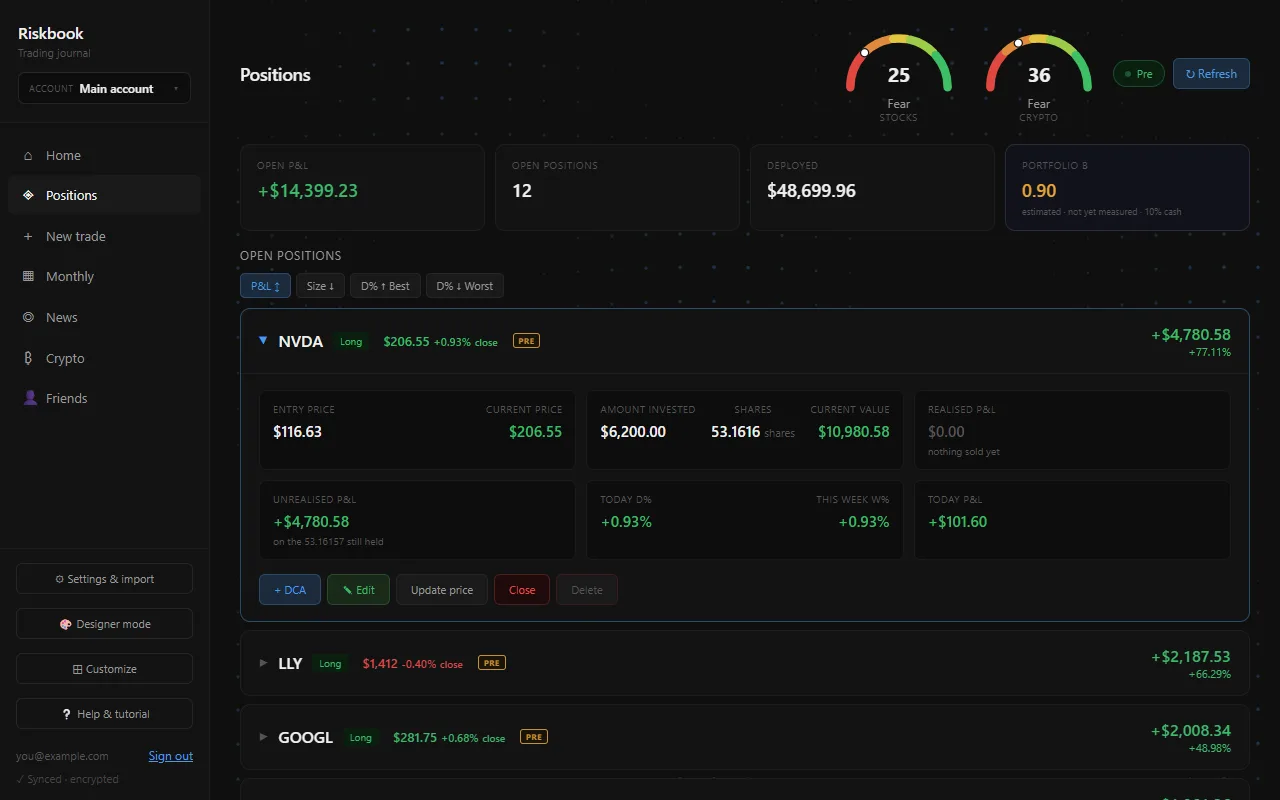
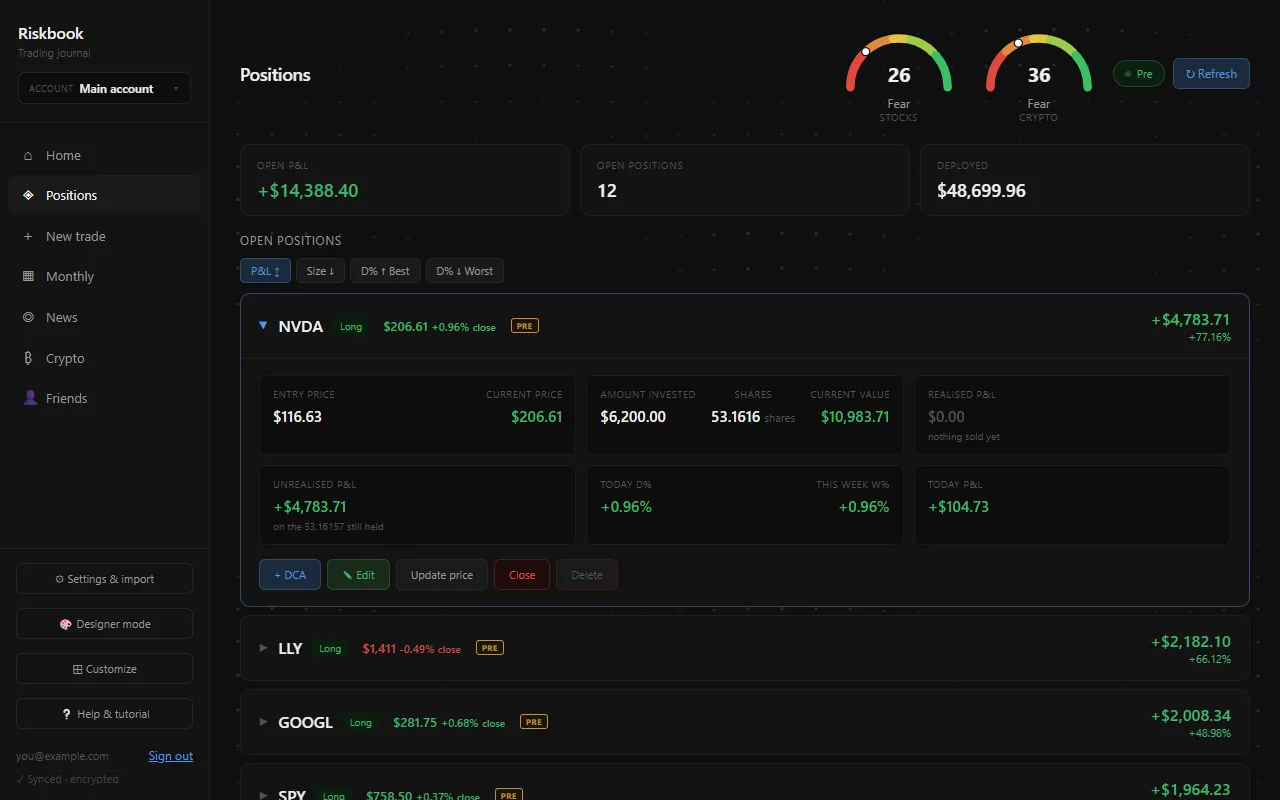
chore: one Help (in the menu), and no Portfolio β on Positions
The top-right ❔ Help repeated the menu's Help & tutorial; it is gone. The β tile
and the beta fetch behind it are removed; Positions shows three figures (open
P&L across the top on a phone). Tutorial pictures retaken to match.

diff --git a/src/ui/views/positions.js b/src/ui/views/positions.js
@@ -1,10 +1,9 @@
 /** The Positions page: summary tiles, then open and closed position cards. */
 import { state } from '../../core/store.js';
 import {
-  unreal, costOf, portfolioBeta, sortPositions, realized, accountTotals, dailyPercent,
+  unreal, costOf, sortPositions, realized, dailyPercent,
 } from '../../core/portfolio.js';
 import { dayStillRunning } from '../dayReset.js';
-import { measuredBetas } from '../../services/benchmark.js';
 import { ui } from '../uiState.js';
 import { positionCard } from './positionCard.js';
 import { money as $u, signedMoney as $s, pnlColor as clr } from '../format.js';
@@ -21,55 +20,18 @@ const setText = (id, text) => { const el = document.getElementById(id); if (el) 
  */
 const dayPctOnScreen = (p) => (dayStillRunning(p) ? dailyPercent(p) : 0);
 
-/**
- * Betas measured from real returns, refreshed in the background.
- *
- * Rendering is synchronous but the index history is not, so the page draws with
- * whatever is known and improves once the fetch lands. Empty means every beta
- * falls back to its published assumption, which is the state until enough
- * history has been collected.
- */
-let measuredBetaCache = new Map();
-
-export async function refreshMeasuredBetas() {
-  const open = state.positions.filter((p) => p.status === 'Open');
-  if (!open.length) return;
-  const next = await measuredBetas(open.map((p) => p.ticker));
-  if (!next.size) return;
-  measuredBetaCache = next;
-  renderPositions();
-}
-
 export function renderPositions() {
   const open = state.positions.filter((p) => p.status === 'Open');
   const closed = state.positions.filter((p) => p.status === 'Closed');
 
   const openPnl = open.reduce((sum, p) => sum + unreal(p), 0);
   const deployed = open.reduce((sum, p) => sum + costOf(p), 0);
-  // Beta is measured against total equity, so cash has to come with it.
-  const account = accountTotals(state.positions, state.cash).account;
-  const beta = portfolioBeta(open, measuredBetaCache, account);
 
   setText('sOpenPnl', $s(openPnl));
   const pnlEl = document.getElementById('sOpenPnl');
   if (pnlEl) pnlEl.style.color = clr(openPnl);
   setText('sOpenCount', open.length);
   setText('sDeployed', $u(deployed).replace('.00', ''));
-  setText('sBeta', beta == null ? '—' : beta.beta.toFixed(2));
-
-  // Say plainly whether this was measured from returns or assumed. They are
-  // very different claims, and the number alone cannot tell them apart.
-  const betaNote = document.querySelector('.sum-beta .sum-sub');
-  if (betaNote) {
-    if (beta == null) betaNote.textContent = 'size-weighted';
-    else {
-      const source = beta.measuredPct >= 99 ? 'measured vs S&P 500'
-        : beta.measuredPct < 1 ? 'estimated · not yet measured'
-          : `${Math.round(beta.measuredPct)}% measured`;
-      const drag = beta.cashDragPct >= 1 ? ` · ${Math.round(beta.cashDragPct)}% cash` : '';
-      betaNote.textContent = source + drag;
-    }
-  }
 
   const openEl = document.getElementById('openPositions');
   if (openEl) {

diff --git a/index.html b/index.html
@@ -181,7 +181,7 @@
       <button class="settings-btn" id="themeBtn" onclick="openDesigner()" style="margin-top:6px">🎨 Designer mode</button>
       <!-- Choose the pages and panels shown: src/ui/views/customize.js. -->
       <button class="settings-btn" id="customizeBtn" onclick="openCustomize()" style="margin-top:6px">⊞ Customize</button>
-      <button class="settings-btn" onclick="openTour()" style="margin-top:6px">❔ Help &amp; tutorial</button>
+      <button class="settings-btn" id="tourBtn" onclick="openTour()" style="margin-top:6px">❔ Help &amp; tutorial</button>
       <div class="account-row" id="accountRow" style="margin-top:10px;display:none">
         <span class="account-email" id="accountEmail"></span>
         <button class="lock-link" onclick="signOut()">Sign out</button>
@@ -207,8 +207,6 @@
           <!-- Money out of the broker: lowers the account, never the returns. -->
           <button class="topbar-btn topbar-btn-warn" onclick="withdrawMoney()" title="Record money taken out of your broker">↓ Withdraw</button>
           <button class="topbar-btn topbar-newtrade" onclick="show('add')">+ New trade</button>
-          <!-- The tutorial, again, any time: src/ui/views/tour.js. -->
-          <button class="topbar-btn topbar-help" id="helpBtn" onclick="openTour()" title="How Riskbook works">❔ Help</button>
         </div>
       </div>
       <div class="hero">
@@ -295,7 +293,6 @@
         <div class="sum"><div class="sum-lbl">Open P&L</div><div class="sum-val" id="sOpenPnl">+$0</div></div>
         <div class="sum"><div class="sum-lbl">Open positions</div><div class="sum-val" id="sOpenCount">0</div></div>
         <div class="sum"><div class="sum-lbl">Deployed</div><div class="sum-val" id="sDeployed">$0</div></div>
-        <div class="sum sum-beta" title="How your portfolio moves relative to the market. 1.0 = moves exactly with the S&amp;P 500"><div class="sum-lbl">Portfolio β</div><div class="sum-val amber" id="sBeta">—</div><div class="sum-sub">size-weighted</div></div>
       </div>
       <div class="section-title">Open positions</div>
       <div style="display:flex;gap:5px;margin-bottom:10px;flex-wrap:wrap">
@@ -749,7 +746,7 @@
       <input type="text" id="apiKeyInput" placeholder="Paste your key here">
     </div>
     <div class="modal-field">
-      <label>Alpha Vantage key — for the S&amp;P 500 comparison and measured beta</label>
+      <label>Alpha Vantage key — for the S&amp;P 500 comparison</label>
       <input type="text" id="benchKeyInput" placeholder="Optional. Free at alphavantage.co">
     </div>
     <div class="btn-row">

diff --git a/src/app/actions.js b/src/app/actions.js
@@ -35,7 +35,7 @@ import { renderHome, toggleAmounts, drawCurve } from '../ui/views/home.js';
 import { toggleDailyLog } from '../ui/views/dailyLog.js';
 import { openCustomize, closeCustomize } from '../ui/views/customize.js';
 import { openTour, closeTour } from '../ui/views/tour.js';
-import { renderPositions, refreshMeasuredBetas } from '../ui/views/positions.js';
+import { renderPositions } from '../ui/views/positions.js';
 import { renderClosePreview } from '../ui/views/closePreview.js';
 import { renderMonthly, renderMonthDetail, populateMonthPicker, populateYearPicker, selectMonth } from '../ui/views/monthly.js';
 import {
@@ -164,7 +164,6 @@ export async function saveAndQuit() {
   closeSettings();
   refreshPrices();
   renderAll();
-  refreshMeasuredBetas();
 }
 
 export function saveApiKey() {
@@ -172,9 +171,8 @@ export function saveApiKey() {
   saveBenchmarkKey(readBenchKeyInput());
   closeSettings();
   refreshPrices();
-  // A new market-data key can change both the benchmark line and beta.
+  // A new market-data key can change the benchmark line.
   renderAll();
-  refreshMeasuredBetas();
 }
 
 // ─── Creating and editing trades ─────────────────────────────────
@@ -1539,7 +1537,6 @@ export async function confirmIbkrImport(replace = false) {
   closeSettings();
   renderAll();
   refreshPrices();
-  refreshMeasuredBetas();
   show('positions');
 
   /**

diff --git a/styles/components.css b/styles/components.css
@@ -335,9 +335,8 @@
 }
 
 /* Positions page summary tiles */
-.summary-row{display:grid;grid-template-columns:repeat(4,minmax(0,1fr));gap:10px;margin-bottom:16px}
+.summary-row{display:grid;grid-template-columns:repeat(3,minmax(0,1fr));gap:10px;margin-bottom:16px}
 .sum{background:var(--panel);border:0.5px solid var(--border);border-radius:10px;padding:13px 16px}
-.sum-beta{border-color:var(--beta-br);background:var(--beta-bg)}
 .sum-lbl{font-size:10px;color:var(--text3);text-transform:uppercase;letter-spacing:0.06em;margin-bottom:6px}
 .sum-val{font-size:18px;font-weight:600;font-variant-numeric:tabular-nums}
 .sum-sub{font-size:9px;color:var(--text3);margin-top:3px}
@@ -1356,9 +1355,10 @@ a.wt-wallet:hover{color:var(--blue);text-decoration:underline}
   .opt-picker{flex-wrap:wrap}
   /* The bottom tab bar already has New trade; the Home shortcut would only repeat it. */
   .topbar-newtrade{display:none}
-  /* Four figures in a row left each about seventy pixels on a phone, and the
-     dollar amounts were cut off mid-number. Two by two. */
+  /* Three figures in a row cut the dollar amounts off mid-number on a phone.
+     Open P&L across the top, the other two side by side under it. */
   .summary-row{grid-template-columns:repeat(2,minmax(0,1fr))}
+  .summary-row .sum:first-child{grid-column:1/-1}
 }
 
 /* ───────── Friends (views/friends.js) ───────── */

diff --git a/src/ui/views/tourShots.js b/src/ui/views/tourShots.js
@@ -51,22 +51,22 @@ export const SHOTS = {
         29
       ],
       "withdraw": [
-        985,
+        1064,
         59,
         86,
         30
       ],
       "newTrade": [
-        1079,
+        1158,
         59,
         92,
         30
       ],
       "help": [
-        1179,
-        59,
-        71,
-        30
+        16,
+        698,
+        177,
+        31
       ],
       "settings": [
         16,
@@ -160,31 +160,31 @@ export const SHOTS = {
     "rects": {
       "card": [
         241,
-        309,
+        294,
         1008,
         64
       ],
       "close": [
         494,
-        574,
+        559,
         56,
         31
       ],
       "dca": [
         259,
-        574,
+        559,
         62,
         31
       ],
       "edit": [
         327,
-        574,
+        559,
         62,
         31
       ],
       "sort": [
         350,
-        273,
+        258,
         70,
         25
       ]
@@ -219,9 +219,9 @@ export const SHOTS = {
         219
       ],
       "earnings": [
-        765,
+        727,
         208,
-        466,
+        504,
         185
       ],
       "econ": [

diff --git a/src/ui/views/tour.js b/src/ui/views/tour.js
@@ -2,7 +2,8 @@
  * The tutorial (November 2026): a few slides, each a real screen of Riskbook
  * with red circles and arrows on the buttons that matter, and a line or two on
  * what they do. It opens by itself the first time someone signs in, and from
- * ❔ Help any time after. Swipe, the arrows or the keyboard move through it.
+ * ❔ Help & tutorial in the menu any time after. Swipe, the arrows or the
+ * keyboard move through it.
  *
  * The pictures are assets/tour-*.webp and where their buttons sit is
  * tourShots.js, both written by scripts/tour-shots.mjs from the same screens.
@@ -89,7 +90,7 @@ export const SLIDES = [
     text: 'Show only what you use, and find this guide again any time.',
     marks: [
       ['customize', 'Customize', 'Switch off any page or panel you do not need. Switch it back on whenever you like.'],
-      ['help', 'Help', 'Opens this tutorial again.'],
+      ['help', 'Help & tutorial', 'Opens this guide again, from the menu. On a phone it is under ⚙.'],
     ],
   },
 ];

diff --git a/src/main.js b/src/main.js
@@ -29,7 +29,6 @@ import { initTheme, setThemeChangeHandler } from './ui/theme.js';
 import { setPageEnterHandler, show } from './ui/router.js';
 import { renderAll, renderOnPageEnter, renderOnThemeChange } from './ui/render.js';
 import { showGauges } from './ui/views/sentimentGauges.js';
-import { refreshMeasuredBetas } from './ui/views/positions.js';
 import { initFormDefaults } from './ui/views/addTrade.js';
 import { showLockScreen } from './ui/views/lockScreen.js';
 import { initAllocationOverlay } from './ui/views/allocationOverlay.js';
@@ -103,8 +102,6 @@ async function startSession() {
   showGauges();
   recordDailySnapshot();
   checkForRecoveredJournal();
-  // Needs the network, so it lands after the first paint and re-renders.
-  refreshMeasuredBetas();
 
   refreshPrices();
   timers = [
